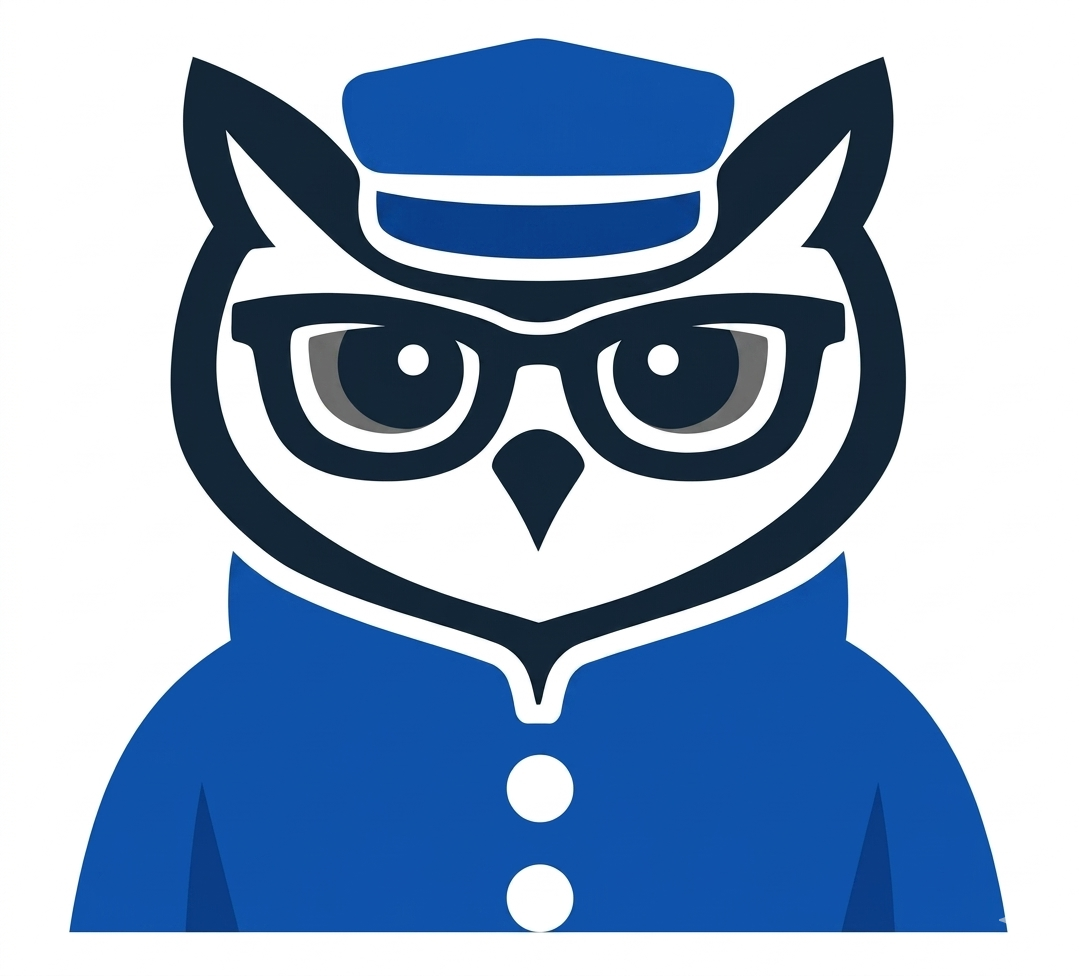
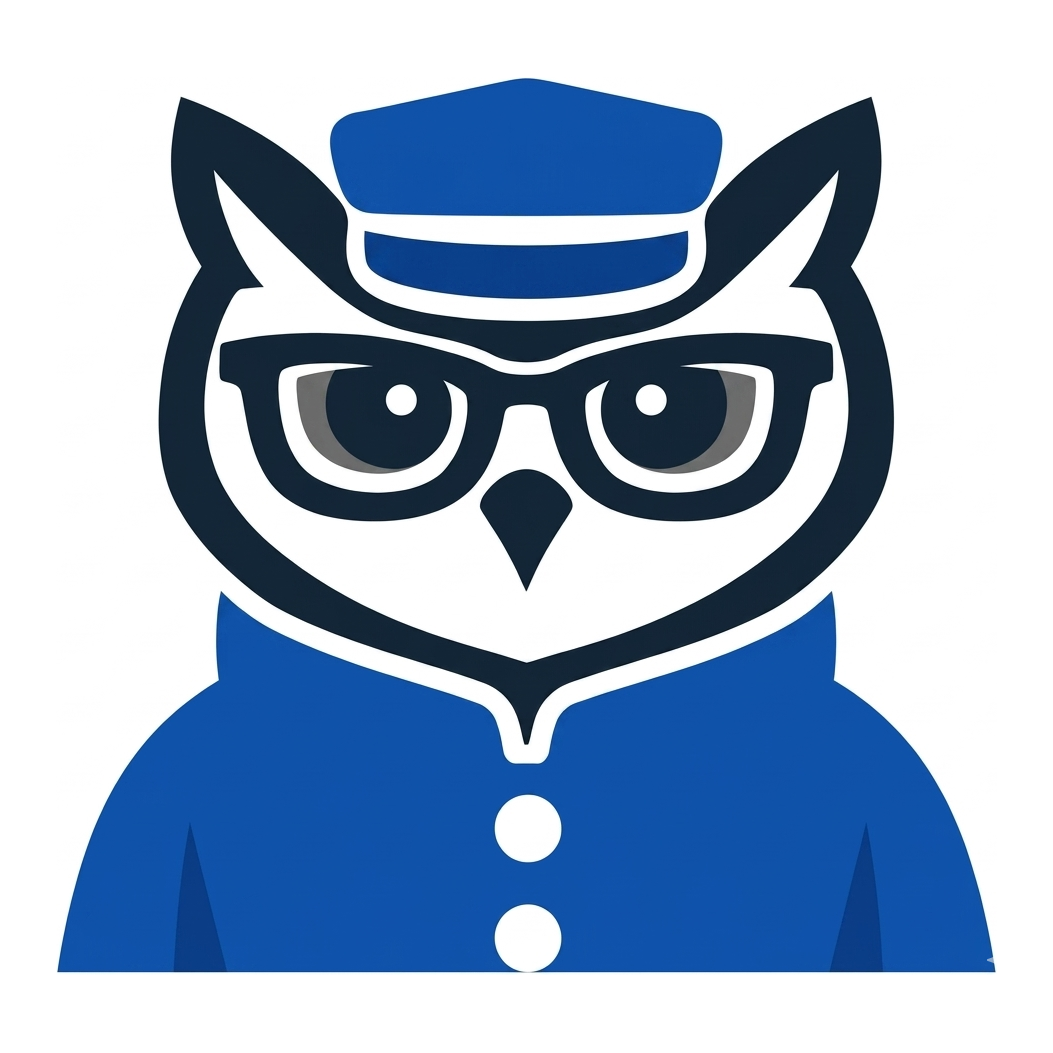
事業アイコンを新版に差し替え、余白を除いて正方形の中央にそろえる
各アイコンの白い余白を切り落として正方形キャンバスの中央に配置し直し、
カード内の円のなかで3枚とも同じ大きさ・同じ位置に見えるようにした。

diff --git a/css/style.css b/css/style.css
@@ -923,9 +923,12 @@ body.theme-shop { --theme: var(--green); --theme-deep: var(--green-deep); }
   overflow: hidden;
 }
 .svc-card__icon img {
-  width: 84%;
-  height: 84%;
+  /* アイコン画像は余白を除いた正方形にそろえてあるので、
+     円の中央にそのまま収める */
+  width: 88%;
+  height: 88%;
   object-fit: contain;
+  object-position: center;
 }
 .svc-card--juku .svc-card__head { background: var(--blue-card-edge); }
 .svc-card--fash .svc-card__head { background: var(--orange); }
